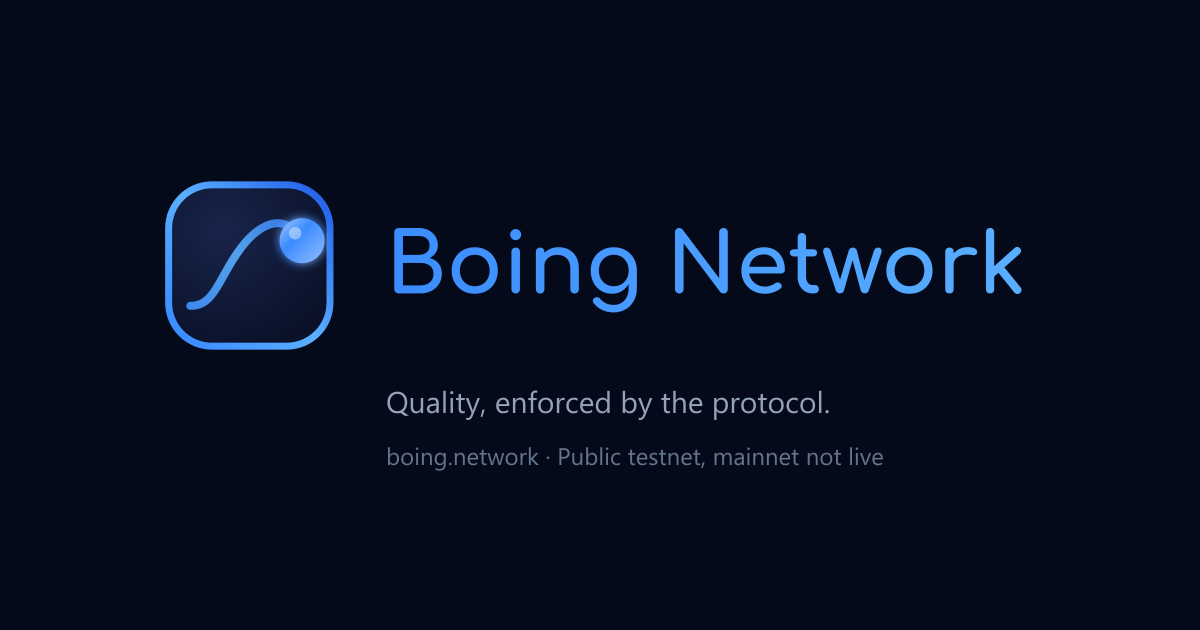
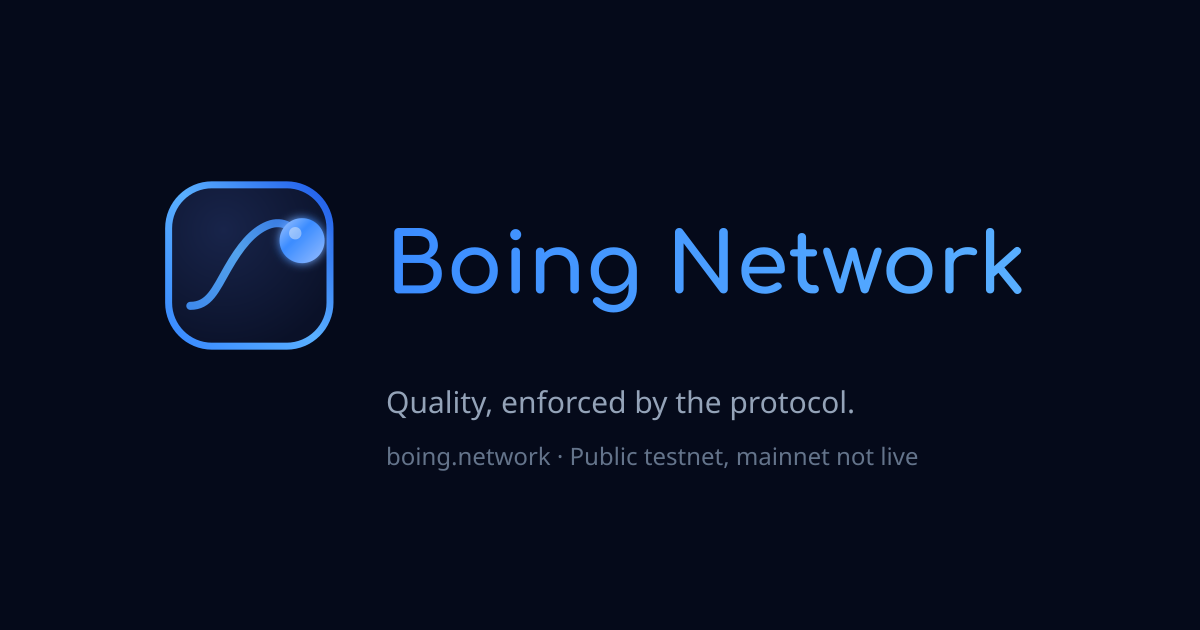
seo: refresh OG cache-bust and Finance brand line
Bump favicon/OG cache version, regenerate the navy/cyan share card, and
align Boing Finance product line to The DEX for Boing Network.

Changed region(s): [[0.3392, 0.6937, 0.7708, 0.754], [0.3083, 0.6032, 0.7092, 0.6635]]

diff --git a/BRAND.md b/BRAND.md
@@ -35,7 +35,7 @@ Use these names consistently. Do not switch between "Boing", "Boing Network" and
 | **Boing Network** | Core protocol and ecosystem | The quality-assured Layer 1 | Boing Network is an independent Layer 1 where quality is enforced by the protocol. |
 | **Boing Express** | Wallet and account access | Your gateway to Boing | A non-custodial wallet designed for the Boing ecosystem. |
 | **Boing Observer** | Explorer and transparency layer | See what happens on-chain | An explorer with integrated QA transparency. |
-| **Boing Finance** | DeFi and liquidity app | Move liquidity across chains | A cross-chain liquidity interface spanning Boing and external networks. |
+| **Boing Finance** | DeFi and liquidity app | The DEX for Boing Network | Swap and provide liquidity on native Boing pools with Boing Express. Public testnet; mainnet is not live. |
 
 - Write product names in title case in prose ("Boing Finance"). Domain names (`boing.finance`) appear only as URLs or in technical contexts.
 - "Boing" alone is fine for the chain in running prose after "Boing Network" has been introduced ("Build on Boing").

diff --git a/README.md b/README.md
@@ -29,7 +29,7 @@ flowchart LR
 |---|---|
 | 👛 Your gateway to Boing: create a wallet and get testnet BOING | [Boing Express](https://boing.express) → [Faucet](https://boing.network/faucet) |
 | 🔭 See what happens on-chain: blocks, accounts, QA decisions and DEX | [Boing Observer](https://boing.observer) |
-| 💱 Move liquidity across chains | [Boing Finance](https://boing.finance) |
+| 💱 The DEX for Boing Network | [Boing Finance](https://boing.finance) |
 | 📖 Read the written pillars | [docs/SIX-PILLARS.md](docs/SIX-PILLARS.md) · [PDF](website/public/pdfs/SIX-PILLARS.pdf) |
 | 🛠 Call JSON-RPC or ship a dApp | [docs/RPC-API-SPEC.md](docs/RPC-API-SPEC.md) · [docs/BOING-DAPP-INTEGRATION.md](docs/BOING-DAPP-INTEGRATION.md) |
 | 🛰 Run a node or join testnet | [docs/TESTNET.md](docs/TESTNET.md) · [docs/RUNBOOK.md](docs/RUNBOOK.md) |
